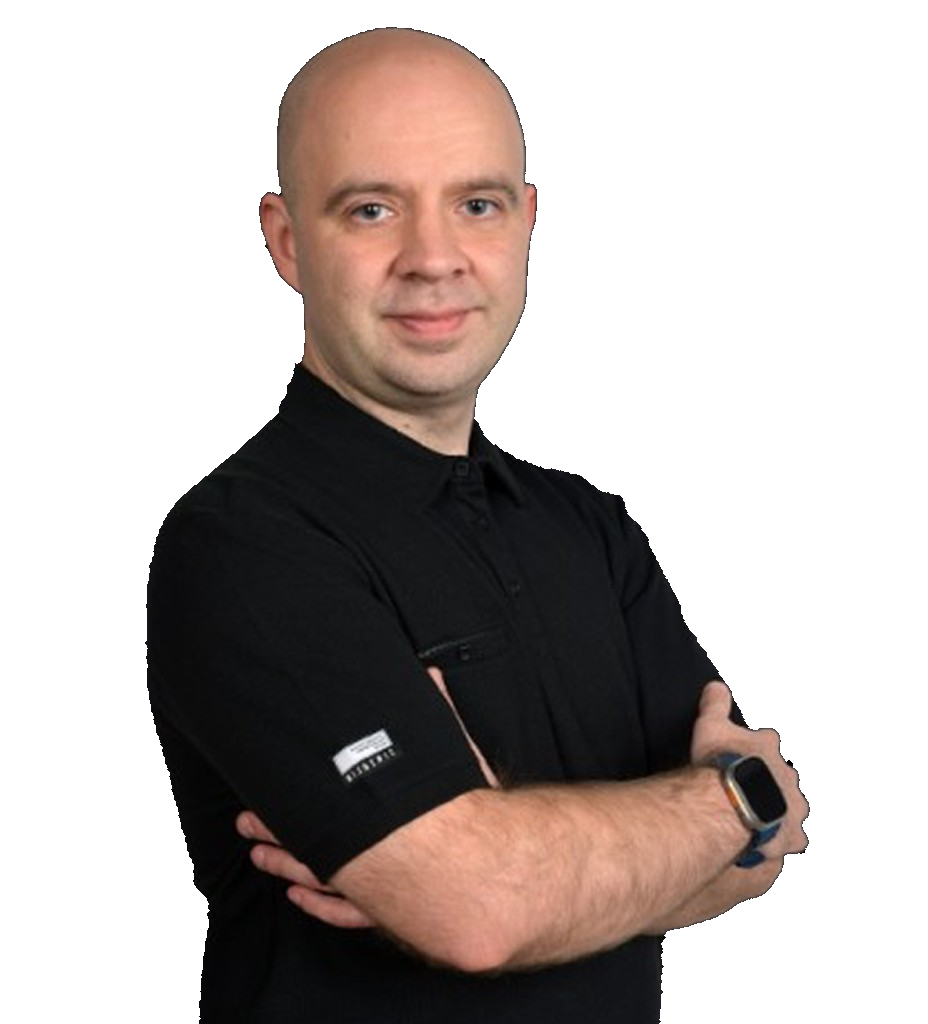
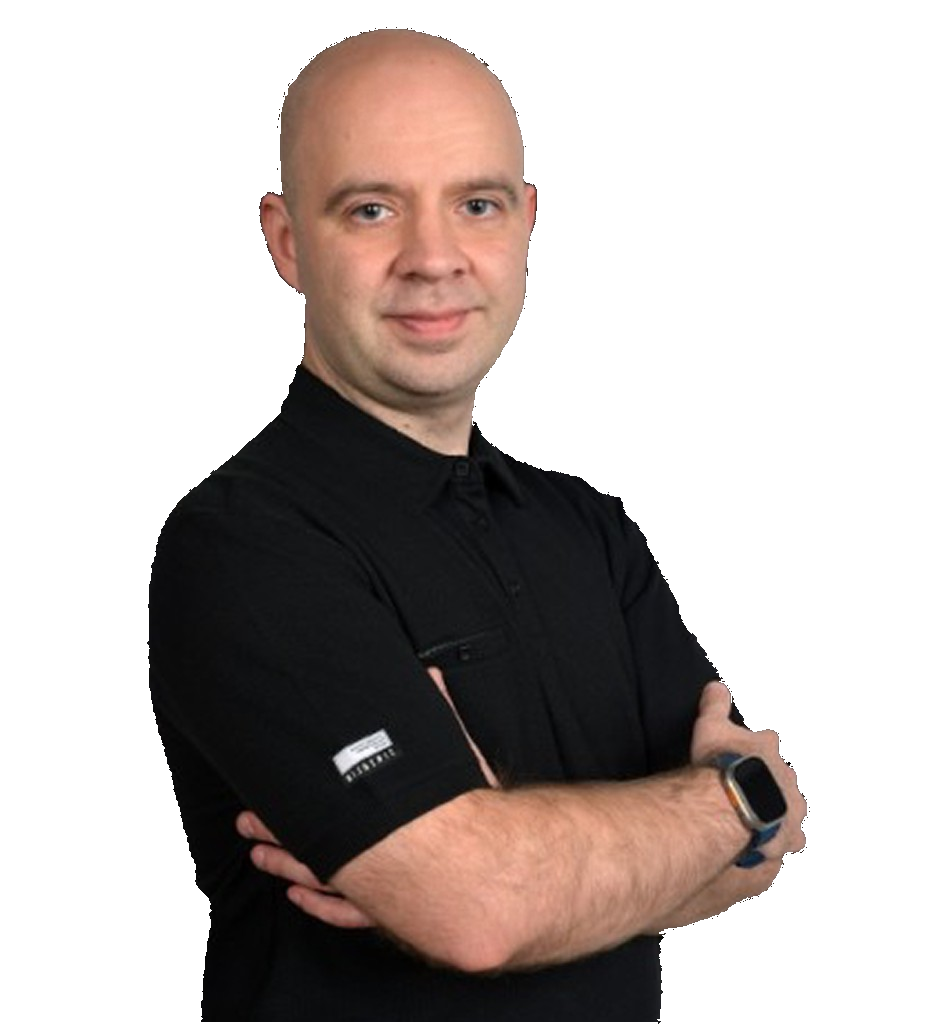
Update landing copy, case styling, and hero timer urgency.
Refresh Oleg bio and student case texts, highlight case stats in dark orange, refine left hero speaker rendering, and show a sub-24h countdown.

Changed region(s): [[0.2812, 0.125, 0.3125, 0.1562]]

diff --git a/index.html b/index.html
@@ -2251,6 +2251,44 @@
       color: #fff;
     }
 
+    #authors .speaker-bio--rich {
+      text-align: left;
+    }
+
+    #authors .speaker-bio--rich p {
+      margin: 0 0 0.65rem;
+    }
+
+    #authors .speaker-bio--rich p:last-child {
+      margin-bottom: 0;
+    }
+
+    #authors .speaker-bio-lead {
+      margin-bottom: 0.75rem !important;
+      font-size: clamp(0.5625rem, 2.45vw, 0.8125rem) !important;
+      line-height: 1.45 !important;
+      letter-spacing: -0.015em;
+      white-space: nowrap;
+    }
+
+    @media (min-width: 640px) {
+      #authors .speaker-bio-lead {
+        letter-spacing: -0.01em;
+      }
+    }
+
+    @media (min-width: 768px) {
+      #authors .speaker-bio-lead {
+        letter-spacing: 0;
+      }
+    }
+
+    #authors .speaker-bio-lead strong {
+      font-weight: 800;
+      color: #FF9900;
+      -webkit-text-fill-color: #FF9900;
+    }
+
     @media (min-width: 640px) {
       .speaker-bio {
         font-size: 0.9375rem;
@@ -2986,6 +3024,26 @@
       font-size: var(--fs-body) !important;
       line-height: var(--lh) !important;
       font-style: normal !important;
+    }
+
+    p.video-case-stat {
+      font-size: 0.75rem !important;
+      font-weight: 700 !important;
+      line-height: 1.4 !important;
+      letter-spacing: 0.02em !important;
+      text-transform: uppercase !important;
+      background: none !important;
+      background-image: none !important;
+      -webkit-background-clip: border-box !important;
+      background-clip: border-box !important;
+      color: var(--accent-dark, #E47911) !important;
+      -webkit-text-fill-color: var(--accent-dark, #E47911) !important;
+    }
+
+    @media (min-width: 640px) {
+      p.video-case-stat {
+        font-size: 0.8125rem !important;
+      }
     }
 
     .text-gray-900 {
@@ -7304,6 +7362,11 @@
       -webkit-text-fill-color: var(--accent) !important;
     }
 
+    body.site-theme-light #authors .speaker-bio-lead strong {
+      color: var(--accent) !important;
+      -webkit-text-fill-color: var(--accent) !important;
+    }
+
     body.site-theme-light .speaker-bio,
     body.site-theme-light .speaker-facts {
       border-top-color: var(--border) !important;
@@ -7440,6 +7503,11 @@
       -webkit-text-fill-color: var(--text-heading) !important;
     }
 
+    body.site-theme-light .video-case-stat {
+      color: var(--hero-orange, #FF5C00) !important;
+      -webkit-text-fill-color: var(--hero-orange, #FF5C00) !important;
+    }
+
     /* ═══ HERO SPEAKERS — як hero-section.html / референс ═══ */
     .hero-section .hero-collage-wrapper {
       position: relative !important;
@@ -7536,7 +7604,19 @@
       content: none !important;
     }
 
-    #hero-speaker-left,
+    #hero-speaker-left {
+      filter:
+        drop-shadow(0 0 1.5px rgba(255, 255, 255, 0.92))
+        drop-shadow(0 0 5px rgba(255, 255, 255, 0.38))
+        drop-shadow(0 0 14px rgba(var(--hero-orange-rgb), 0.14))
+        drop-shadow(0 0 28px rgba(var(--hero-orange-rgb), 0.16)) !important;
+      -webkit-mask-image: none !important;
+      mask-image: none !important;
+      border: none !important;
+      outline: none !important;
+      box-shadow: none !important;
+    }
+
     #hero-speaker-right {
       filter: drop-shadow(0 0 28px rgba(var(--hero-orange-rgb), 0.16)) !important;
       -webkit-mask-image: linear-gradient(
@@ -7925,8 +8005,8 @@
           <div class="speakers-photo-wrap">
             <img
               id="hero-speaker-left"
-              src="images/speaker-mykola-hq.png?v=33"
-              srcset="images/speaker-mykola-hq.png?v=33 1x, images/[email redacted]?v=33 2x"
+              src="images/speaker-mykola-hq.png?v=34"
+              srcset="images/speaker-mykola-hq.png?v=34 1x, images/[email redacted]?v=34 2x"
               class="collage-img collage-speaker collage-speaker--left"
               width="928"
               height="1024"
@@ -8017,12 +8097,13 @@
               <img src="images/speaker-oleg.png?v=13" alt="Олег Бєлоцерковець" width="874" height="1024" loading="lazy" />
             </div>
             <h3 class="speaker-name text-lg sm:text-xl font-extrabold uppercase leading-tight tracking-tight text-center mb-3">Олег Бєлоцерковець</h3>
-            <ul class="speaker-facts mt-auto">
-              <li>15+ років в eCommerce</li>
-              <li>10 років в Amazon KDP</li>
-              <li>Автор методики <strong>«ФОРМУЛА ЗАПУСКУ — SFB»</strong></li>
-              <li>300+ книг у 2025 та 300+ учнів</li>
-            </ul>
+            <div class="speaker-bio speaker-bio--rich mt-auto">
+              <p class="speaker-bio-lead"><strong>Експерт з Amazon KDP та Private Label з 10-річним досвідом</strong></p>
+              <p>Автор онлайн-курсу «Формула Книжкового Бізнесу на Amazon», методики «Формула Запуску», інтенсивів, практикумів і майстер-класів з книжкового бізнесу на Amazon.</p>
+              <p>Досвід — 300+ цифрових книг у 8+ країнах 5 мовами, 500+ учнів і клієнтів.</p>
+              <p>Керую Amazon PPC Agency, яка допомогла 100+ Amazon-селерам розвивати продажі від $5,000 до $100,000.</p>
+              <p>Допомагаю авторам, експертам і підприємцям виходити на міжнародні ринки США, Канади та Європи через модель Amazon KDP.</p>
+            </div>
           </div>
         </article>
 
@@ -8030,7 +8111,7 @@
           <div class="speaker-card-glow" aria-hidden="true"></div>
           <div class="relative z-10 flex flex-col h-full">
             <div class="speaker-photo-slot mb-3">
-              <img src="images/speaker-mykola.png?v=13" alt="Микола Матушевський" width="928" height="1024" loading="lazy" />
+              <img src="images/speaker-mykola.png?v=14" alt="Микола Матушевський" width="928" height="1024" loading="lazy" />
             </div>
             <h3 class="speaker-name text-lg sm:text-xl font-extrabold uppercase leading-tight tracking-tight text-center mb-3">Микола Матушевський</h3>
             <ul class="speaker-facts mt-auto">
@@ -8169,7 +8250,7 @@
           <div class="video-embed">
             <iframe src="https://www.youtube-nocookie.com/embed/Ri_ic8ZB5x0?rel=0" title="Вікторія — кейс" loading="lazy" allow="accelerometer; autoplay; clipboard-write; encrypted-media; gyroscope; picture-in-picture; web-share" allowfullscreen></iframe>
           </div>
-          <p class="case-desc">Працювала за наймом. За 3 місяці створила книгу в ніші психології і заробила $7,408.</p>
+          <p class="case-desc">Працювала за наймом. На своїй першій книзі в ніші психології заробила $7,408 за 3 місяці.</p>
         </article>
 
         <article class="video-card">
@@ -8180,7 +8261,7 @@
           <div class="video-embed">
             <iframe src="https://www.youtube-nocookie.com/embed/1qUj8TUGZBA?rel=0" title="Наталія — кейс" loading="lazy" allow="accelerometer; autoplay; clipboard-write; encrypted-media; gyroscope; picture-in-picture; web-share" allowfullscreen></iframe>
           </div>
-          <p class="case-desc">Живе в Туреччині. Запустила 3 кулінарні книги — одна посіла топ-1 на британському ринку.</p>
+          <p class="case-desc">Живе в Туреччині. Запустила 3 кулінарні книги — одна з яких була Бестселером на протязі 6 місяців на ринку Британії.</p>
         </article>
 
         <article class="video-card">
@@ -8202,7 +8283,7 @@
           <div class="video-embed">
             <iframe src="https://www.youtube-nocookie.com/embed/KVjiYVacIV8?rel=0" title="Денис — кейс" loading="lazy" allow="accelerometer; autoplay; clipboard-write; encrypted-media; gyroscope; picture-in-picture; web-share" allowfullscreen></iframe>
           </div>
-          <p class="case-desc">Заробив $10,462 за перші 3 місяці, додав нові книги і отримав $197,667.95.</p>
+          <p class="case-desc">Заробив $10,462 на першій книзі за 3 місяці. Запустив ще десятки книг і зробив за рік $197,667.95.</p>
         </article>
 
       </div>
@@ -8281,7 +8362,7 @@
             <div class="flex-1 min-w-0 flex flex-col gap-0.5 sm:gap-1">
               <h3 class="inside-video-title">ВІДЕО 3: АНАТОМІЯ УСПІШНОЇ КНИГИ</h3>
               <p class="inside-video-desc">Розбір ТОП-3 бестселерів, які заробляють від $3000 кожен</p>
-              <p class="program-result"><strong>РЕЗУЛЬТАТ:</strong> Ви побачите зсередини, як влаштовані книги, що реально продаються — і зрозумієте, за яким принципом будувати свою першу книгу.</p>
+              <p class="program-result"><strong>РЕЗУЛЬТАТ:</strong> Ви побачите зсередини, як влаштовані книги, що реально продаються — і зрозумієте, за яким принципом створювати свою першу книгу.</p>
             </div>
           </div>
         </article>
@@ -8617,30 +8698,33 @@
   <script>
     (function () {
       const deadline = new Date();
-      deadline.setDate(deadline.getDate() + 3);
-      deadline.setHours(23, 59, 59, 0);
+      deadline.setHours(23, 59, 59, 999);
+      if (deadline.getTime() <= Date.now()) {
+        deadline.setDate(deadline.getDate() + 1);
+      }
 
       const daysEl = document.getElementById('cd-days');
       const hoursEl = document.getElementById('cd-hours');
       const minsEl = document.getElementById('cd-mins');
       const secsEl = document.getElementById('cd-secs');
+      const daysWrap = daysEl && daysEl.closest('.timer-digit');
+      if (daysWrap) daysWrap.hidden = true;
 
       function pad(n) { return String(n).padStart(2, '0'); }
 
       function tick() {
         const diff = deadline - Date.now();
         if (diff <= 0) {
-          daysEl.textContent = '00';
+          if (daysEl) daysEl.textContent = '00';
           hoursEl.textContent = '00';
           minsEl.textContent = '00';
           secsEl.textContent = '00';
           return;
         }
-        const d = Math.floor(diff / 86400000);
-        const h = Math.floor((diff % 86400000) / 3600000);
+        const h = Math.floor(diff / 3600000);
         const m = Math.floor((diff % 3600000) / 60000);
         const s = Math.floor((diff % 60000) / 1000);
-        daysEl.textContent = pad(d);
+        if (daysEl) daysEl.textContent = '00';
         hoursEl.textContent = pad(h);
         minsEl.textContent = pad(m);
         secsEl.textContent = pad(s);